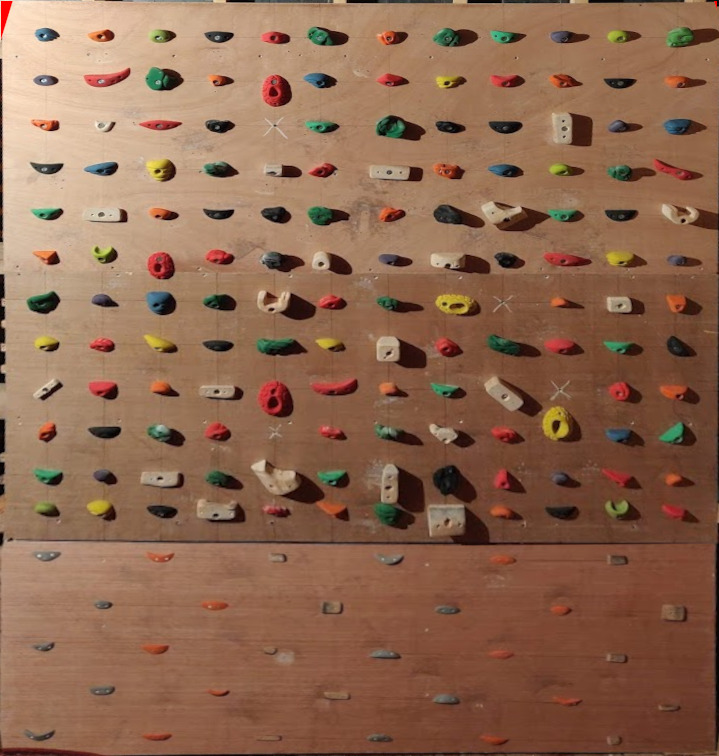
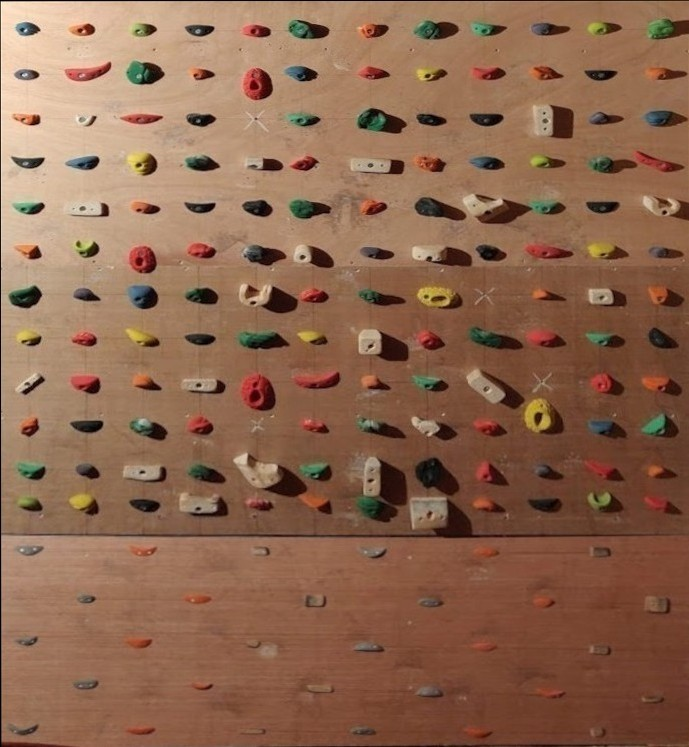
Add font and fix board image

diff --git a/src/app/layout.tsx b/src/app/layout.tsx
@@ -13,9 +13,15 @@ const geistMono = localFont({
   weight: "100 900",
 });
 
+const freshman = localFont({
+  src: "./fonts/Freshman.ttf",
+  variable: "--font-freshman",
+  weight: "100 900",
+})
+
 export const metadata: Metadata = {
-  title: "Create Next App",
-  description: "Generated by create next app",
+  title: "BarnBoard",
+  description: "Moonboard like app for personal use",
 };
 
 export default function RootLayout({
@@ -26,7 +32,7 @@ export default function RootLayout({
   return (
     <html lang="en">
       <body
-        className={`${geistSans.variable} ${geistMono.variable} antialiased`}
+        className={`${geistSans.variable} ${geistMono.variable} ${freshman.className} antialiased`}
       >
         {children}
       </body>

diff --git a/src/app/components/HoldPicker.tsx b/src/app/components/HoldPicker.tsx
@@ -6,12 +6,12 @@ export default function HoldPicker({ boulder, setBoulder, editMode }: { boulder:
     <div style={{
       backgroundSize: 'cover',
       backgroundImage: `url(${board.src})`,
-      height: `${756 / 719 * 100}vw`,
+      height: `${747 / 689 * 100}vw`,
       width: `100vw`
     }}>
       <div className='grid grid-cols-12 gap-0.5' style={{
         width: `100vw`,
-        height: `${540 / 756 * 100}%`,
+        height: `${538 / 756 * 100}%`,
       }}>
         {...Array(144).fill('').map((_, i) => <Hold key={`hold_${i}`} index={i.toString()} boulder={boulder} setBoulder={setBoulder} editMode={editMode} />)}
       </div >

diff --git a/src/app/components/Boulder.tsx b/src/app/components/Boulder.tsx
@@ -51,7 +51,7 @@ export function Boulder({ id }: { id: string }) {
     <AppBar className={`${GRADE_COLORS[parseInt(boulder.grade)]} ${boulder.grade !== '5' ? 'text-white' : 'text-black'}`} position="static">
       <Toolbar variant="regular" className='justify-between'>
         <IconButton edge="start" color='inherit' onClick={handleBack}><ArrowBack /></IconButton>
-        <Typography variant="h5" color="inherit" component="div">
+        <Typography className="font-freshman" variant="h5" color="inherit" component="div">
           {`${boulder?.name}`}
         </Typography>
         {

diff --git a/src/app/components/NewBoulder.tsx b/src/app/components/NewBoulder.tsx
@@ -35,7 +35,7 @@ export function NewBoulder() {
     <AppBar position="static">
       <Toolbar variant="regular" className='justify-between'>
         <IconButton edge="start" color='inherit' onClick={handleBack}><ArrowBack /></IconButton>
-        <Typography variant="h4" color="inherit" component="div">
+        <Typography className="font-freshman" variant="h4" color="inherit" component="div">
           New Boulder
         </Typography>
         <IconButton disabled={!canSave} edge='end' color='inherit' onClick={handleSave}><Save /></IconButton>

diff --git a/src/app/components/BouldersList.tsx b/src/app/components/BouldersList.tsx
@@ -38,7 +38,7 @@ export function BouldersList() {
   return (<>
     <AppBar position="static">
       <Toolbar variant="dense">
-        <Typography variant="h6" color="inherit" component="div">
+        <Typography className="font-freshman" variant="h6" color="inherit" component="div">
           BarnBoard
         </Typography>
       </Toolbar>

diff --git a/tailwind.config.ts b/tailwind.config.ts
@@ -11,6 +11,9 @@ const config: Config = {
         background: "var(--background)",
         foreground: "var(--foreground)",
       },
+      fontFamily: {
+        freshman: ['var(--font-freshman)'],
+      },
     },
   },
   plugins: [],
